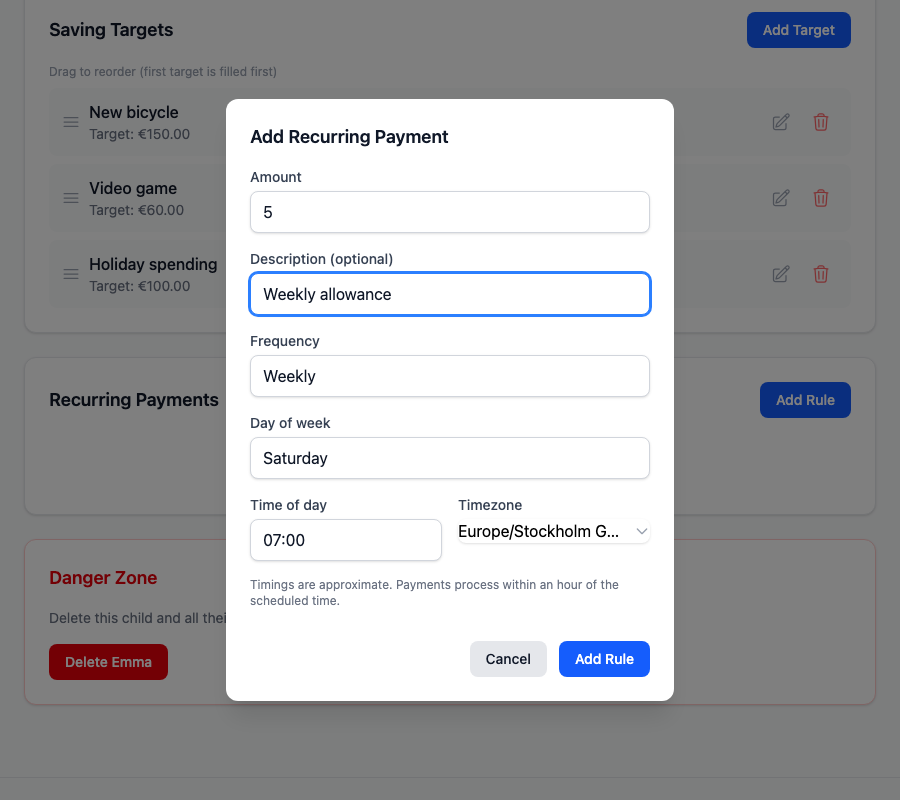
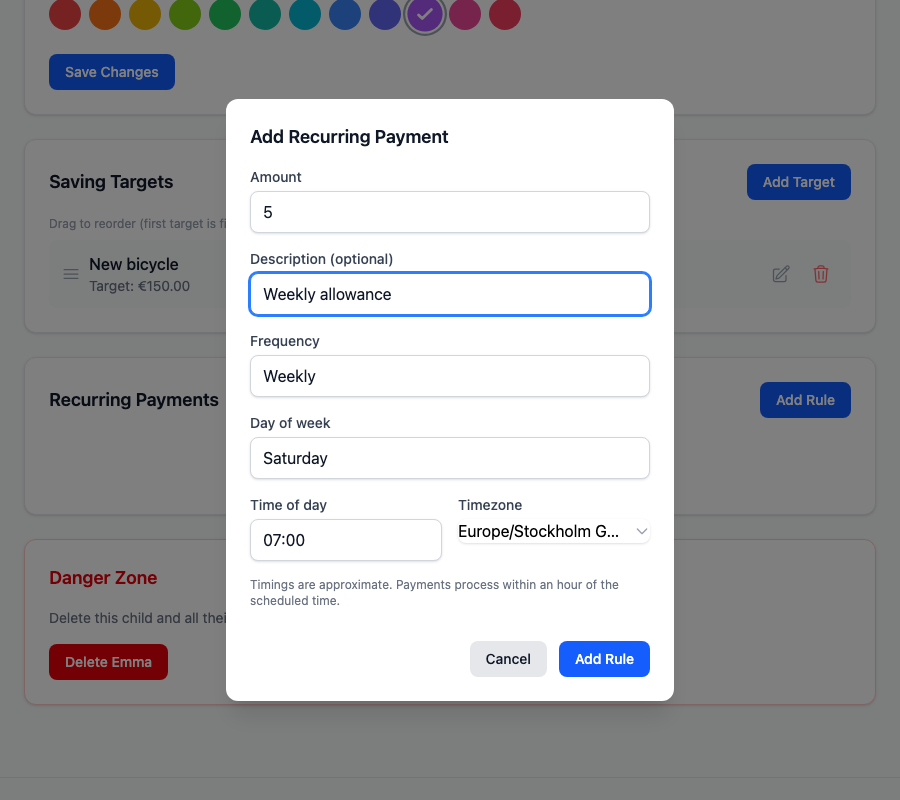
Revert screenshot script to single saving target, regenerate screenshots

diff --git a/scripts/capture-screenshots.ts b/scripts/capture-screenshots.ts
@@ -128,25 +128,11 @@ async function main() {
 		await page.waitForLoadState('networkidle');
 		await screenshot(page, 'child-settings', true);
 
-		// Add saving targets (multiple, to show segmented progress ring on dashboard)
+		// Add a saving target
 		await page.click('button:has-text("Add Target")');
 		await page.waitForSelector('text=Add Saving Target >> visible=true');
 		await page.fill('input#targetName', 'New bicycle');
 		await page.fill('input#targetAmount', '150');
-		await page.locator('.fixed.inset-0.z-50 form button[type="submit"]').click({ force: true });
-		await page.waitForTimeout(500);
-
-		await page.click('button:has-text("Add Target")');
-		await page.waitForSelector('text=Add Saving Target >> visible=true');
-		await page.fill('input#targetName', 'Video game');
-		await page.fill('input#targetAmount', '60');
-		await page.locator('.fixed.inset-0.z-50 form button[type="submit"]').click({ force: true });
-		await page.waitForTimeout(500);
-
-		await page.click('button:has-text("Add Target")');
-		await page.waitForSelector('text=Add Saving Target >> visible=true');
-		await page.fill('input#targetName', 'Holiday spending');
-		await page.fill('input#targetAmount', '100');
 		await page.locator('.fixed.inset-0.z-50 form button[type="submit"]').click({ force: true });
 		await page.waitForTimeout(500);
 
@@ -173,14 +159,6 @@ async function main() {
 		// Wait for chart animation to complete
 		await page.waitForTimeout(1500);
 		await screenshot(page, 'child-profile-featured');
-
-		// Re-capture dashboard now that child has balance and multiple saving targets,
-		// so the segmented progress ring is visible
-		await page.click('a:has-text("Dashboard")');
-		await page.waitForURL(`${BASE_URL}/`);
-		await page.waitForLoadState('networkidle');
-		await page.waitForTimeout(1000);
-		await screenshot(page, 'dashboard');
 
 		// ============================================
 		// App Settings Screenshots
